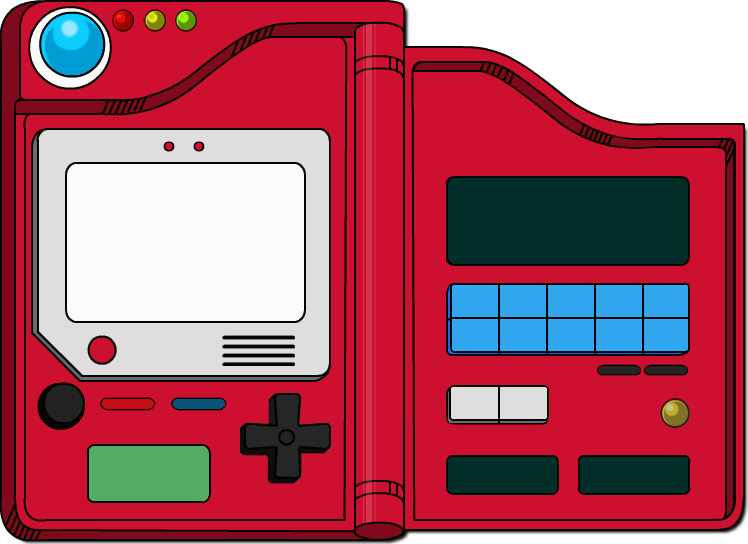
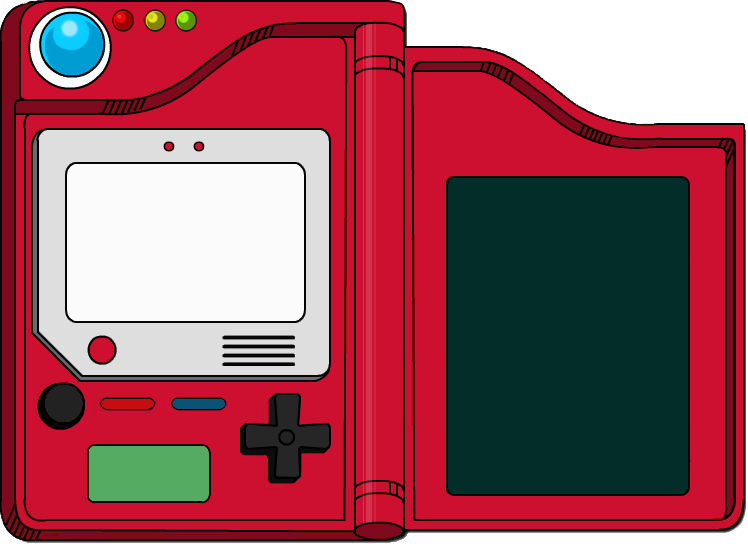
pokedex done

Changed region(s): [[0.5842, 0.4688, 0.9225, 0.9375], [0.984, 0.25, 1.0, 0.9688], [0.5227, 0.0, 0.5535, 0.0312]]

diff --git a/js/pokedex.js b/js/pokedex.js
@@ -1,68 +1,124 @@
 
-var pokedexIndex = 0;
+var pokedexIndex = 1;
 
-var pokedexHeight = 30;
-var pokedexYpos = 20;
+var pokedexHeight = 31;
+var pokedexYpos = 155;
 
 var pokedexTransitionTime = 50;
 
+var cursorPos = 0;
+
+var pokedexInfo = [];
+
+var pokedexPokemon = {};
+
+var showPokemon = function(id){
+  $("#pokedexPic").css({'background-image': 'url(' +  pokedexPokemon[id].sprites.front_default+ ')'});
+}
+
+var setPokedexInfo = function(){
+
+  $("#pokedexList").remove();
+
+  var pokedexString = "<ul id='pokedexList'>";
+
+  pokedexInfo.forEach(function(item){
+    pokedexString += "<li>" + item + "</li>";
+  });
+
+  pokedexString += "</ul>";
+
+  $("#pokedexright").append(pokedexString);
+
+};
+
 var showPokedex = function(){
-  var menuString = "<div id='pokedex' class='pokedex'>";
-  menuString += "<div id='pokedexPic' class='pokedexPic'></div>";
-  menuString += "<ul class='pokedexList'>";
-  var pokemon = localStorage.getItem('pokemon');
-  for(var i =1;i<=150;i++){
-    menuString += "<li class='pokedexItem'>"+pokemon[i].name + "</li>";
+  var pokedexString = "<div id='pokedex'></div>";
+  var pokedexLeft = "<div id='pokedexleft'></div>";
+  var pokedexRight = "<div id='pokedexright'></div>";
+  pokedexPokemon = JSON.parse(localStorage.getItem('pokemon'));
+  for(var i =1;i<=10;i++){
+    pokedexInfo.push(pokedexPokemon[i].name);
   }
-  menuString += "</ul></div>";
 
-  $('#screen').append(menuString);
+  $('#screen').append(pokedexString);
 
-  var selectorString = "<div id='pokedexselector' class='pokedexselector'></div>";
-  $('#pokedex').append(selectorString);
+  $('#pokedex').append(pokedexLeft);
+  $('#pokedexleft').append("<div id='pokedexPic'></div>");
+
+  $('#pokedex').append(pokedexRight);
+  $('#pokedexright').append("<div id='pokedexselector'></div>");
+  showPokemon(1);
+  setPokedexInfo();
 };
 
 
 var dexUpKey = function(){
 
-  if(pokedexIndex > 0){
-    console.log('menu going up');
-    pokedexIndex--;
-    selectorYpos -= pokedexHeight;
-    $('#selector').animate({
-      top : "-=30"
-    }, pokedexTransitionTime,'linear');
+  if(pokedexIndex >0){
+    if(cursorPos > 0){
+      $('#pokedexselector').animate({
+        top : "-="+pokedexHeight
+      }, menuTransitionTime, 'linear');
+      cursorPos--;
+      pokedexIndex--;
+      showPokemon(pokedexIndex);
+    }
+    else{
+      pokedexInfo.splice(9,1);
+      pokedexIndex--;
+      pokedexInfo.splice(0,0,pokedexPokemon[pokedexIndex].name);
+      setPokedexInfo();
+      showPokemon(pokedexIndex);
+    }
+  }
+  else{
+    //play thud sound
   }
 };
 
 var dexDownKey = function(){
-  if(pokedexIndex <menuItems.length-1){
-    console.log('menu going down');
-    pokedexIndex++;
-    selectorYpos += pokedexHeight;
-    $('#selector').animate({
-      top : "+=30"
-    }, pokedexTransitionTime, 'linear');
+  if(pokedexIndex <150){
+    if(cursorPos< 9){
+      $('#pokedexselector').animate({
+        top : "+="+pokedexHeight
+      }, menuTransitionTime, 'linear');
+      cursorPos++;
+      pokedexIndex++;
+      showPokemon(pokedexIndex);
+    }
+    else{
+      pokedexInfo.splice(0,1);
+      pokedexIndex++;
+      pokedexInfo.push(pokedexPokemon[pokedexIndex].name);
+      setPokedexInfo();
+      showPokemon(pokedexIndex);
+    }
+  }
+  else{
+    //play thud sound
   }
 };
 
-var menuzDown = function(){
+var dexzDown = function(){
 
 };
 
-var menuxDown = function(){
-  $('#menu').remove();
+var dexxDown = function(){
+  $('#pokedex').remove();
   $('selector').remove();
-  pokedexIndex = 0;
+  pokedexInfo = [];
+  pokedexIndex = 1;
+  cursorPos = 0;
   switchToMenuControls();
 };
 
-var switchToMenuControls = function(){
+var switchToPokedexControls = function(){
 
   resetBindings();
-  showMenu();
-  uparrowdown = menuUpKeyDown;
-  downarrowdown = menuDownKeyDown;
-  zdown = menuzDown;
-  xdown = menuxDown;
+  showPokedex();
+  uparrowdown = dexUpKey;
+  downarrowdown = dexDownKey;
+  zdown = dexzDown;
+  xdown = dexxDown;
 }

diff --git a/js/picker.js b/js/picker.js
@@ -1,5 +1,5 @@
 
-var menuItems = ['Pokedex','Pokemon'];
+var menuItems = ['Bulbasaur','Charmander',''];
 var menuIndex = 0;
 
 var menuItemHeight = 30;
@@ -7,10 +7,10 @@ var selectorYpos = 20;
 
 var menuTransitionTime = 50;
 
-var showMenu = function(){
-  var menuString = "<div id='menu' class='menu'><ul class='menuList'>";
+var showPicker = function(){
+  var menuString = "<div id='picker'><ul class='pickerList'>";
   menuItems.forEach(function(item){
-    menuString += "<li class='menuitem'>"+item+"</li>";
+    menuString += "<li>"+item+"</li>";
   });
   menuString += "</ul></div>";
 
@@ -21,19 +21,12 @@ var showMenu = function(){
 };
 
 
-var menuUpKeyDown = function(){
+var pickerUpKey = function(){
 
-  if(menuIndex > 0){
-    console.log('menu going up');
-    menuIndex--;
-    selectorYpos -= menuItemHeight;
-    $('#selector').animate({
-      top : "-=30"
-    }, menuTransitionTime,'linear');
-  }
+
 };
 
-var menuDownKeyDown = function(){
+var pickerDownKey = function(){
   if(menuIndex <menuItems.length-1){
     console.log('menu going down');
     menuIndex++;
@@ -45,9 +38,7 @@ var menuDownKeyDown = function(){
 };
 
 var menuzDown = function(){
-  if(menuIndex == 0){
-    switchToPokedexControls();
-  }
+
 };
 
 var menuxDown = function(){
@@ -60,9 +51,7 @@ var menuxDown = function(){
 var switchToMenuControls = function(){
 
   resetBindings();
-  if (!jQuery.contains(document, $('#menu')[0])) {
-    showMenu();
-  }
+  showMenu();
   uparrowdown = menuUpKeyDown;
   downarrowdown = menuDownKeyDown;
   zdown = menuzDown;

diff --git a/css/main.css b/css/main.css
@@ -28,6 +28,7 @@
   left: 350px;
   border-radius: 5px;
   padding:20px;
+  background-color: white;
 }
 
 .menuItem{
@@ -104,4 +105,63 @@
   padding: 30px;
   border: thick solid black;
   border-radius: 10px;
+}
+
+#pokedexleft{
+  background-image: url(../images/pokedex_left.png);
+  width: 275px;
+  height: 550px;
+  z-index: 3;
+  position: absolute;
+  top: 0px;
+  left: 15px;
+  background-repeat: no-repeat;
+  background-size: 275px 550px;
+  transform: skew(10deg,10deg) rotate(10deg);
+}
+
+#pokedexright{
+  background-image: url(../images/pokedex_right.png);
+  width: 275px;
+  height: 539px;
+  z-index: 3;
+  position: absolute;
+  left: 294px;
+  top: 23px;
+  background-repeat: no-repeat;
+  background-size: 275px 520px;
+  transform: skew(170deg,170deg) rotate(-10deg);
+}
+
+#pokedexList{
+  list-style-image: url('../images/pokeball.png');
+    color: white;
+  font-family: ArcadeClassic;
+  top: 155px;
+  position: relative;
+  font-size: 22px;
+  left: 40px;
+}
+
+#pokedexselector{
+  width: 170px;
+  height: 25px;
+  border: thin solid white;
+  border-radius: 15px;
+  position: absolute;
+  top: 155px;
+  left: 50px;
+  z-index: 3;
+}
+
+#pokedexPic{
+  width: 154px;
+  height: 150px;
+  border: thin solid black;
+  position: relative;
+  top: 170px;
+  left: 50px;
+  background-repeat:no-repeat;
+  background-size: cover;
+  background-siez: 154px 150px;
 }

diff --git a/js/main.js b/js/main.js
@@ -125,7 +125,12 @@ function loadPokedexData(){
         urls.push(data.sprites.back_default);
         urls.push(data.sprites.front_default);
         var id = data.id;
-        pokemon[id] = data;
+        var some = {};
+        some.name = data.name;
+        some.id = data.id;
+        some.types = data.types;
+        some.sprites = data.sprites;
+        pokemon[id] = some;
         console.log('Looked up '+data.name);
       },
       error: function(data,code){
@@ -234,12 +239,10 @@ $(function() {
     $("#loadingText").text('Loading Pokedex...');
   }
   else{
-    console.log('pokedex already loaded');
     pressStart();
   }
 
   $("#loadingText").blink({delay:800});
-
 
   // disable window controls
   window.onkeydown = function(e) {

diff --git a/index.html b/index.html
@@ -9,6 +9,7 @@
     <script src="js/world.js"></script>
     <script src="js/menu.js"></script>
     <script src="js/chat.js"></script>
+    <script src="js/pokedex.js"></script>
     <script src="js/main.js"></script>
   </head>
 
